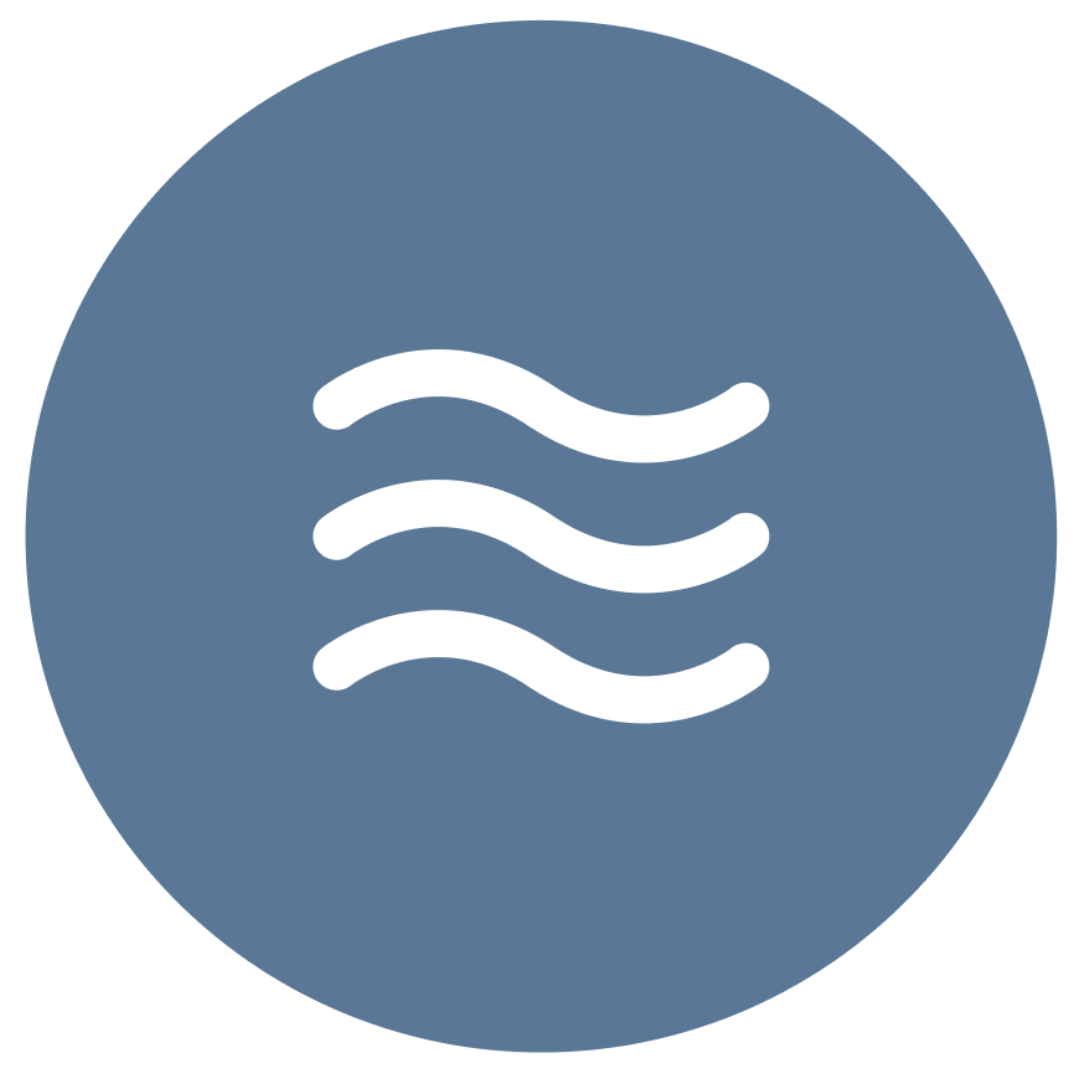
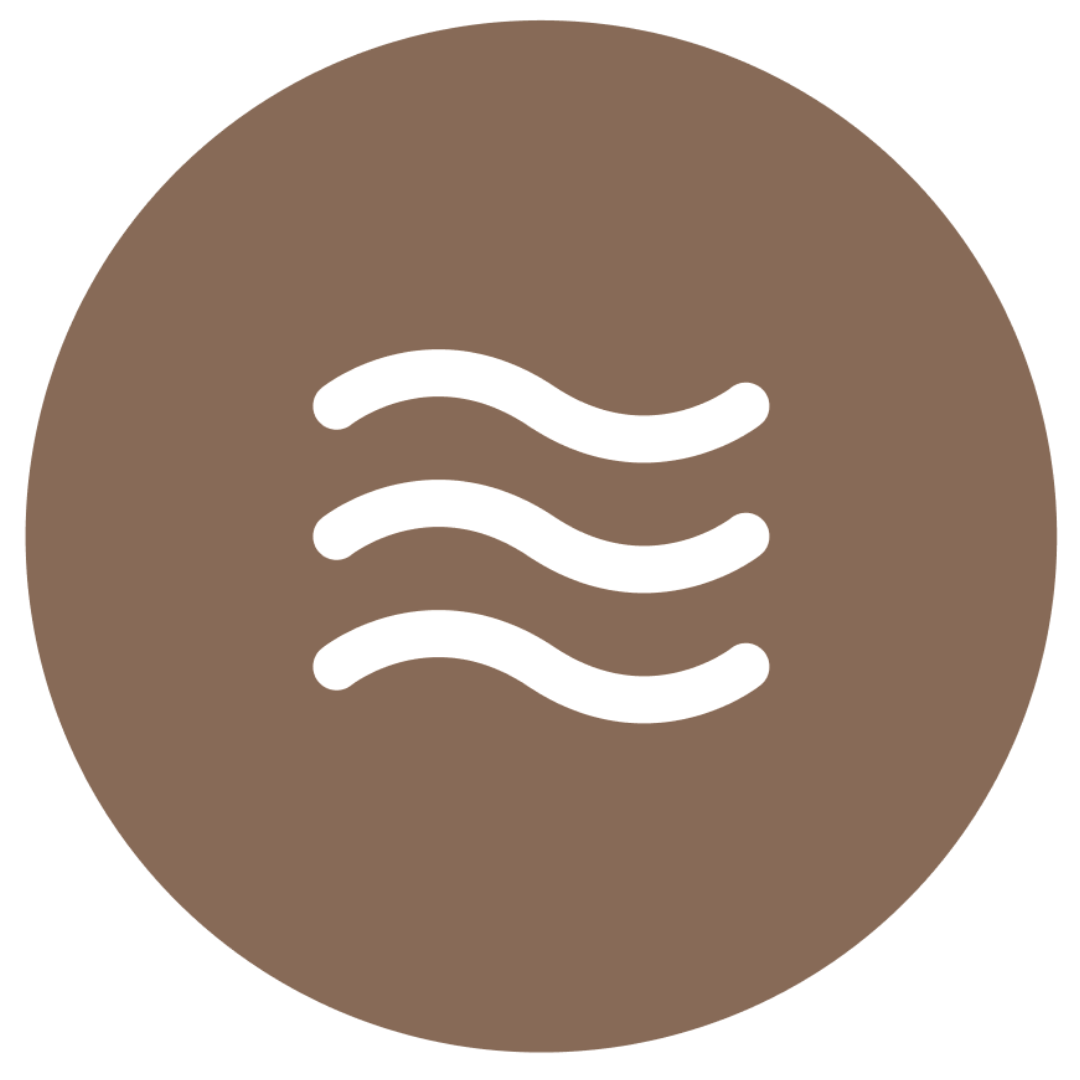
Knap ændret så den navigerer til forside. Ikoner ændret i farve

diff --git a/style.css b/style.css
@@ -129,16 +129,15 @@ nav ul li a:hover{
 }
 
 .tekst-1 p, .tekst-2 p, .tekst-3 p, .tekst-4 p{
-    text-align: center;
+    text-align: left;
     font-size: 1.5em;
     padding: 1em 2em;
 
+
 }
 
-.tekst-1 button{
+.tekst-1 button {
     background-color: #2E4053;
-    color: #fff;
-    text-transform: uppercase;
     border: none;
     border-radius: 66px;
     box-shadow: 0 4px 8px 0 #4F647A; /* vandret, nedad, blødhed, spread, farve */
@@ -149,6 +148,12 @@ nav ul li a:hover{
     display: block;
     margin: 0 auto;
     cursor: pointer;
+}
+
+.tekst-1 button a{
+    color: white;
+    text-transform: uppercase;
+    text-decoration: none;
 }
 
 .tekst-1 button:hover{

diff --git a/index.html b/index.html
@@ -51,8 +51,7 @@
             </h2>
             <p>Craft-psykologi er et begreb der beskriver den psykologiske virkning, der opstår når mennesker arbejder med noget kreativt og håndgribeligt. Craft-psykologi beskriver blandt andet hvordan håndarbejde skaber ro og styrker vores mentale sundhed.</p>
             <button>
-                læs mere om craft-<br>psykologi
-                <link rel="stylesheet" href="info.html">
+                <a href="info.html">læs mere om craft-<br>psykologi</a>
             </button>
         </section>
 
